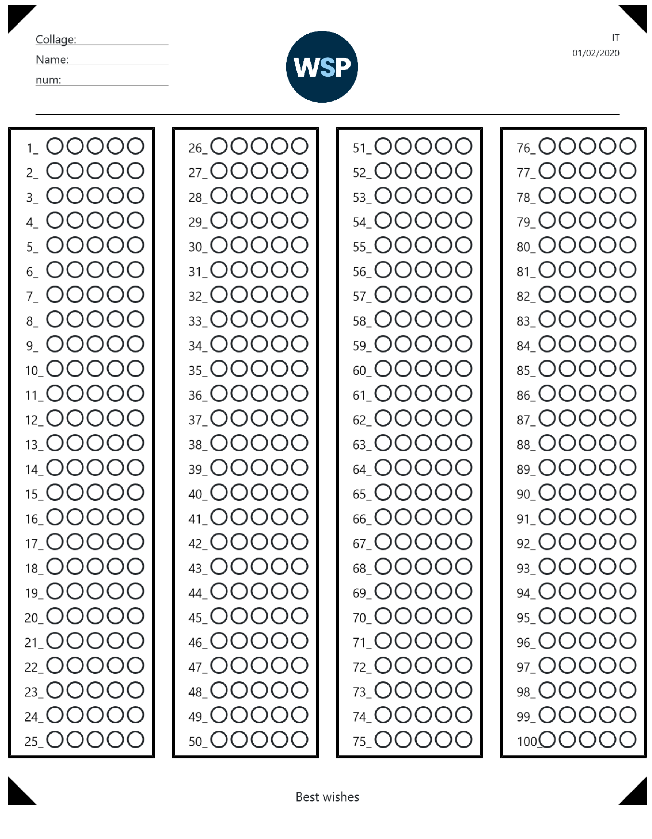
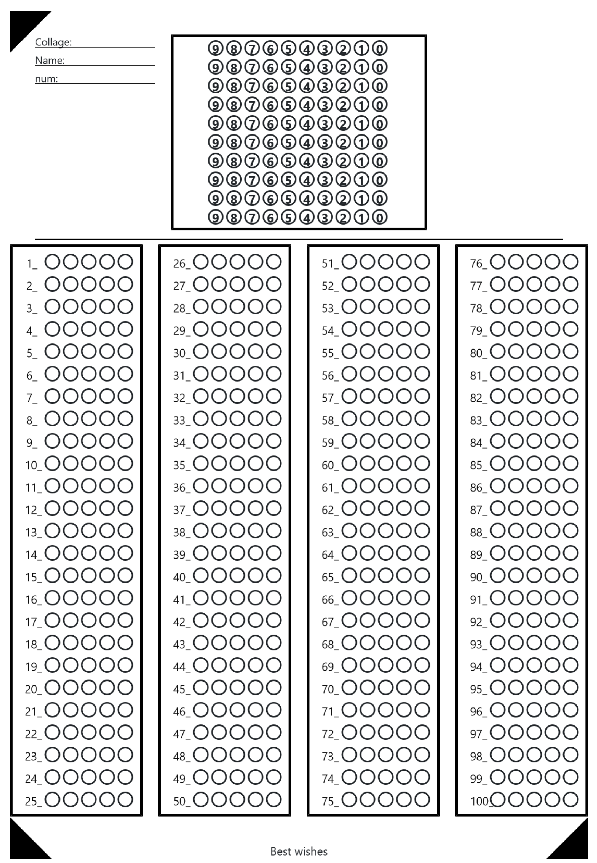
The pde file size has been improved to a maximum of 166kb, with the addition of the ability to specify the university student number.

diff --git a/js-version/custom.js b/js-version/custom.js
@@ -23,14 +23,16 @@ document.addEventListener('DOMContentLoaded', function () {
 		html2canvas(document.querySelector('#content')).then((canvas) => {
 			let base64image = canvas.toDataURL('image/png');
 
-			let pdfWidth = 24 * 37.8; // تحويل العرض من سم إلى بكسل (باستخدام عامل التحويل 37.8 بكسل في السم)
-			let pdfHeight = 29.7 * 37.8; // تحويل الارتفاع من سم إلى بكسل (باستخدام عامل التحويل 37.8 بكسل في السم)
+			let pdfWidth = 24 * 37.8;
+			let pdfHeight = 34.7 * 37.8;
 
-			let pdf = new jsPDF('p', 'px', [pdfWidth, pdfHeight]);
+			let pdf = new jsPDF('p', 'px', [pdfWidth, pdfHeight], true);
+
 			let imageWidth = pdfWidth - 30;
 			let imageHeight = (imageWidth * canvas.height) / canvas.width;
 
-			pdf.addImage(base64image, 'PNG', 15, 15, imageWidth, imageHeight);
+			pdf.addImage(base64image, 'PNG', 15, 15, imageWidth, imageHeight, '', 'FAST');
+
 			pdf.save('pdf');
 		});
 	});
@@ -66,11 +68,11 @@ function Before_selection() {
 	imgSelect.classList.remove("hide");
 }
 
-function createQuestions(num_of_element) {
+function createQuestions(num_of_elements) {
 
+	// var num_of_elements = document.getElementById("numInput").value;
+	num_of_elements = parseInt(num_of_elements);
 	After_selection()
-
-	num_of_elements = parseInt(num_of_element);
 
 	if (!isNaN(num_of_elements) && num_of_elements > 0) {
 		var quastionElement = document.getElementById("quastion");
@@ -215,3 +217,53 @@ function createQuestions(num_of_element) {
 		alert("Please enter a value greater than 0");
 	}
 }
+
+function createIdNum() {
+	rowNum = 9
+	colNum = 9
+
+	var mainContainer = document.getElementById("num_id_child");
+
+	var p_num_id_child = createCircleContainerp("p_num_id_child");
+	mainContainer.appendChild(p_num_id_child);
+
+	function createCircleContainer(className) {
+		var circleContainer = document.createElement("div");
+		circleContainer.className = className;
+		return circleContainer;
+	}
+
+	function createCircleContainerp(className) {
+		var circleContainerul = document.createElement("p");
+		circleContainerul.className = className;
+		return circleContainerul;
+	}
+
+
+	function createCircle(num) {
+		var circle = document.createElement("div");
+		circle.className = "circle";
+		var letter = document.createElement("span");
+		letter.className = "letter";
+		letter.innerHTML = num;
+		circle.appendChild(letter);
+		return circle;
+	}
+
+
+	for (let i = 0; i <= rowNum; i++) {
+		var num_id_child = createCircleContainer("num_id_child");
+
+		for (var j = colNum; j >= 0; j--) {
+			var circle = createCircle(j);
+			num_id_child.appendChild(circle);
+		}
+
+		p_num_id_child.appendChild(num_id_child);
+
+	}
+}
+
+window.onload = function() {
+	createIdNum();
+  };

diff --git a/js-version/style.css b/js-version/style.css
@@ -26,6 +26,13 @@ body {
     justify-content: center;
 }
 
+.num_id_child {
+    display: flex;
+    margin-bottom: 6px;
+    margin-top: 6px;
+    justify-content: center;
+}
+
 .circle {
     width: 30px;
     height: 30px;
@@ -55,7 +62,7 @@ body {
 }
 
 .line_bottom {
-    padding-top: 20px;
+    /* padding-top: 20px; */
     border-bottom: solid black 2px;
 }
 
@@ -68,8 +75,8 @@ body {
     position: absolute;
     top: 0;
     left: 0;
-    width: 30px;
-    height: 30px;
+    width: 80px;
+    height: 80px;
     background-color: black;
 }
 
@@ -77,8 +84,8 @@ body {
     position: absolute;
     top: 0;
     right: 0;
-    width: 30px;
-    height: 30px;
+    width: 80px;
+    height: 80px;
     background-color: black;
 }
 
@@ -86,8 +93,8 @@ body {
     position: absolute;
     bottom: 0;
     left: 0;
-    width: 30px;
-    height: 30px;
+    width: 80px;
+    height: 80px;
     background-color: black;
 }
 
@@ -95,8 +102,8 @@ body {
     position: absolute;
     bottom: 0;
     right: 0;
-    width: 30px;
-    height: 30px;
+    width: 80px;
+    height: 80px;
     background-color: black;
 }
 
@@ -108,7 +115,7 @@ body {
     width: 0;
     height: 0;
     border-style: solid;
-    border-width: 50px 0 0 50px;
+    border-width: 80px 0 0 80px;
     border-color: black transparent transparent transparent;
 }
 
@@ -119,7 +126,7 @@ body {
     width: 0;
     height: 0;
     border-style: solid;
-    border-width: 50px 50px 0px 0px;
+    border-width: 80px 80px 0px 0px;
     border-color: black transparent transparent transparent;
 }
 
@@ -131,7 +138,7 @@ body {
     width: 0;
     height: 0;
     border-style: solid;
-    border-width: 0 0 50px 50px;
+    border-width: 0 0 80px 80px;
     border-color: transparent transparent black transparent;
 }
 
@@ -142,7 +149,7 @@ body {
     width: 0;
     height: 0;
     border-style: solid;
-    border-width: 0 50px 50px 0;
+    border-width: 0 80px 80px 0;
     border-color: transparent transparent black transparent;
 }
 
@@ -151,6 +158,10 @@ li {
     border: 5px solid black;
     list-style: none;
     padding-left: 15px;
+}
+
+.p_num_id_child{
+    border: 5px solid black;
 }
 
 h5::after {
@@ -164,7 +175,7 @@ h5::after {
 .center_div ,
 .center2_div, 
 .right_div {
-    margin-top: 20px;
+    margin-top: 9px;
 }
 
 

diff --git a/js-version/index.html b/js-version/index.html
@@ -16,6 +16,7 @@
 <body>
 
 	<div class="container">
+		<!--  -->
 		<div id="content" class="hide">
 			<!-- you can but class (square_black_top_left)  -->
 			<div class="treangle_black_top_left">
@@ -23,8 +24,8 @@
 
 
 			<!-- you can but class (square_black_top_right) -->
-			<div class="treangle_black_top_right">
-			</div>
+			<!-- <div class="treangle_black_top_right">
+			</div> -->
 
 			<!-- you can but class (square_black_bottom_left) -->
 			<div class="treangle_black_bottom_left">
@@ -42,15 +43,12 @@
 							<h5>Name: </h5>
 							<h5>num: </h5>
 						</div>
-						<div class="col-1 offset-2 logo">
-							<img width="125px" height="125px" src="wsp.png" />
-						</div>
-						<div class="invoice-details col-3 offset-3 text-right">
+						<div class="col-6" id="num_id_child">
 
-							<h6>IT</h6>
-							<h6>01/02/2020</h6>
+							<!-- this code from js -->
 
 						</div>
+
 					</div>
 
 					<div class="line_bottom"></div>
@@ -99,11 +97,16 @@
 			</div>
 		</div>
 
+		<!-- <input type="text" id="numInput" placeholder="Num Questions" pattern="\d+"
+			oninput="this.value = this.value.replace(/[^0-9]/g, '')">
+
+		<button type="submit" onclick="createQuestions()">Submit</button> -->
 		<div class="btn hide" id="buttons">
-			
+
 			<button class="btn btn-success btn-lg" onclick="Before_selection()">Choose Another Template</button>
 
 			<button id="btn-one" class="btn btn-success btn-lg">Download PDF</button>
+
 		</div>
 	</div>
 
